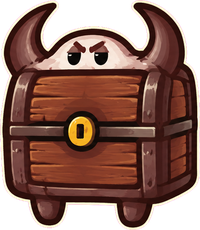
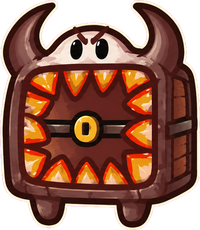
Ramo della designer: la cassa è il baule aperto con i denti
Claude-Session: https://claude.ai/code/session_01Je1vycjYa696zrgeTGcLDf

diff --git a/strumenti/grafica/baule.py b/strumenti/grafica/baule.py
@@ -1,14 +1,14 @@
 # Cassa delle armi: il baule di Gabriella (disegnato con ChatGPT, già scontornato).
-#   client/assets/casse/cassa.png        il baule chiuso
-#   client/assets/casse/cassa_luce.png   la serratura, bianca: il gioco la tinge
-#                                        di brace e la fa pulsare
-# python3 strumenti/grafica/baule.py [baule_chiuso.png]
+#   client/assets/casse/cassa.png        il baule aperto, con i denti
+#   client/assets/casse/cassa_luce.png   serratura e denti, bianchi:
+#                                        il gioco li tinge di brace e li fa pulsare
+# python3 strumenti/grafica/baule.py [baule_aperto.png]
 import sys
 from pathlib import Path
 import numpy as np
 from PIL import Image, ImageFilter
 
-SORGENTE = sys.argv[1] if len(sys.argv) > 1 else "/mnt/project-files/gabriella/disegni/2026-10-24_chatgpt/scontornati/baule_chiuso.png"
+SORGENTE = sys.argv[1] if len(sys.argv) > 1 else "/mnt/project-files/gabriella/disegni/2026-10-24_chatgpt/scontornati/baule_aperto.png"
 OUT = Path(__file__).resolve().parents[2] / "client/assets/casse"
 ALTO = 230   # pixel: circa la stessa densità dei fotogrammi del diavoletto
 
@@ -17,7 +17,7 @@ im = im.crop(im.getchannel("A").point(lambda a: 255 if a > 8 else 0).getbbox())
 im = im.resize((round(im.width * ALTO / im.height), ALTO), Image.LANCZOS)
 im.save(OUT / "cassa.png", optimize=True)
 
-# la serratura: il giallo dell'ottone, allargato e sfumato come un alone
+# serratura e punte dei denti: il giallo, allargato e sfumato come un alone
 a = np.asarray(im).astype(float)
 r, g, b = a[..., 0], a[..., 1], a[..., 2]
 oro = ((r > 200) & (g > 140) & (b < 90) & (a[..., 3] > 128)).astype("uint8") * 255
